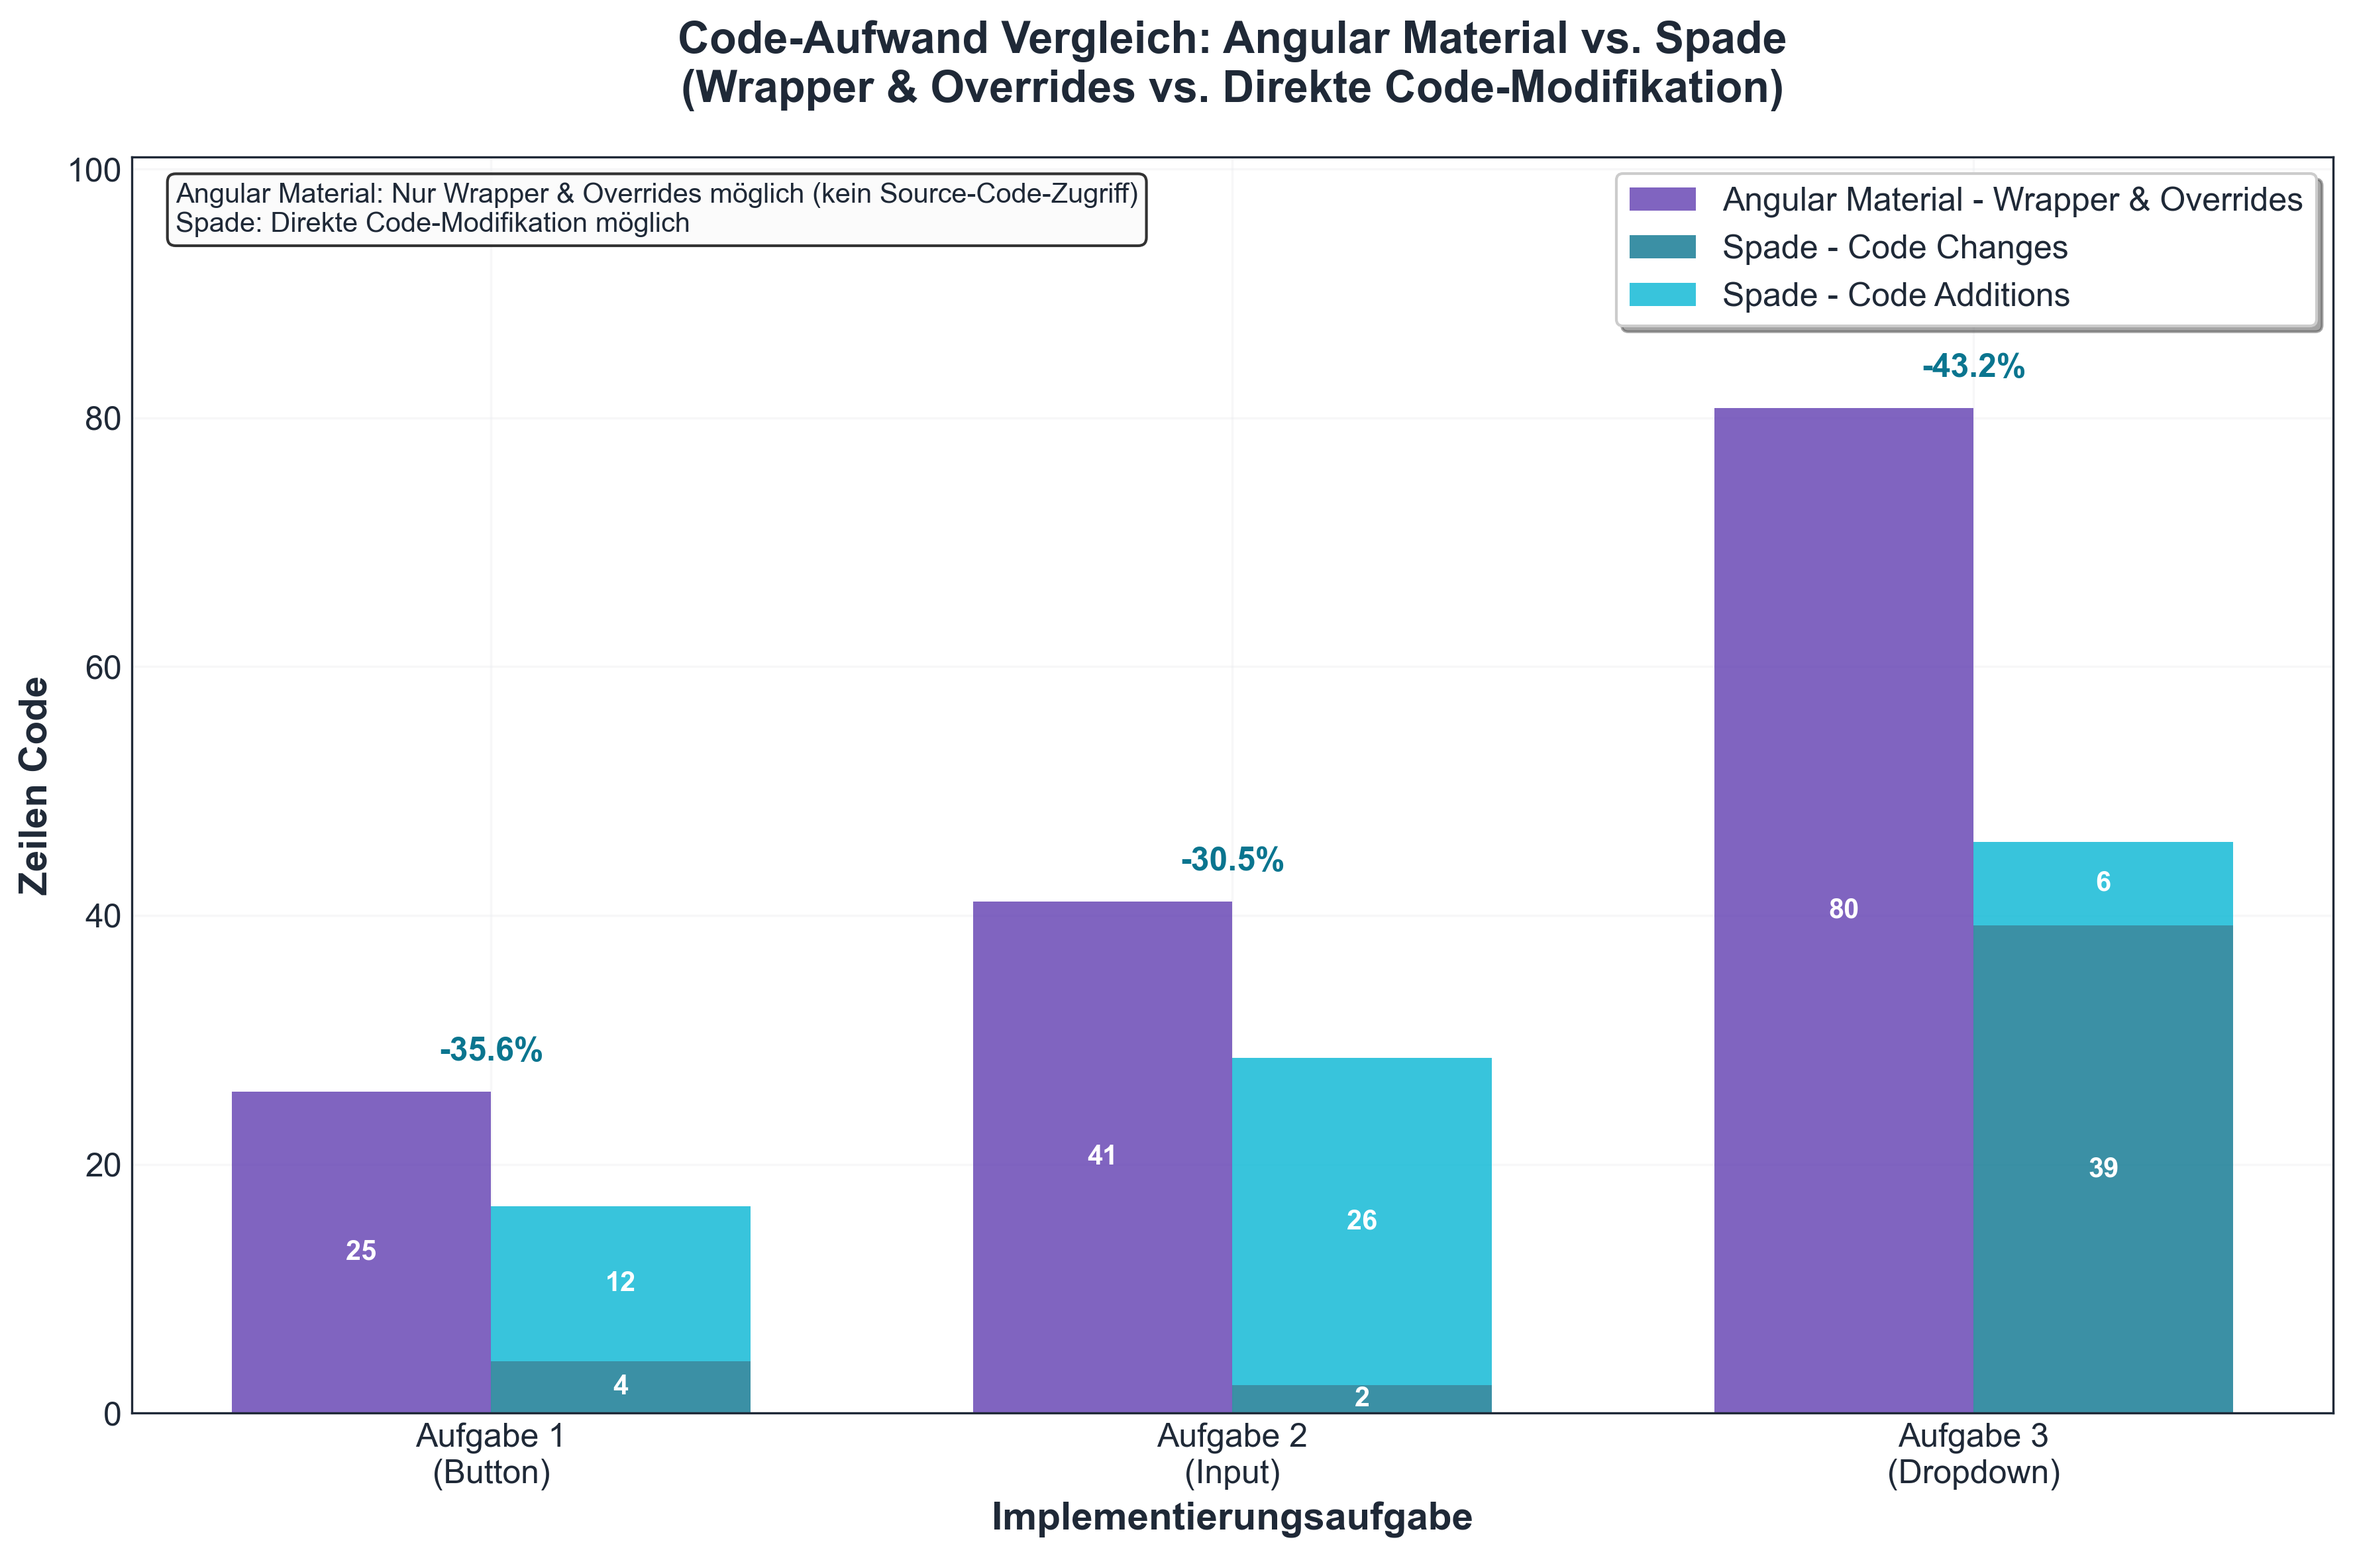
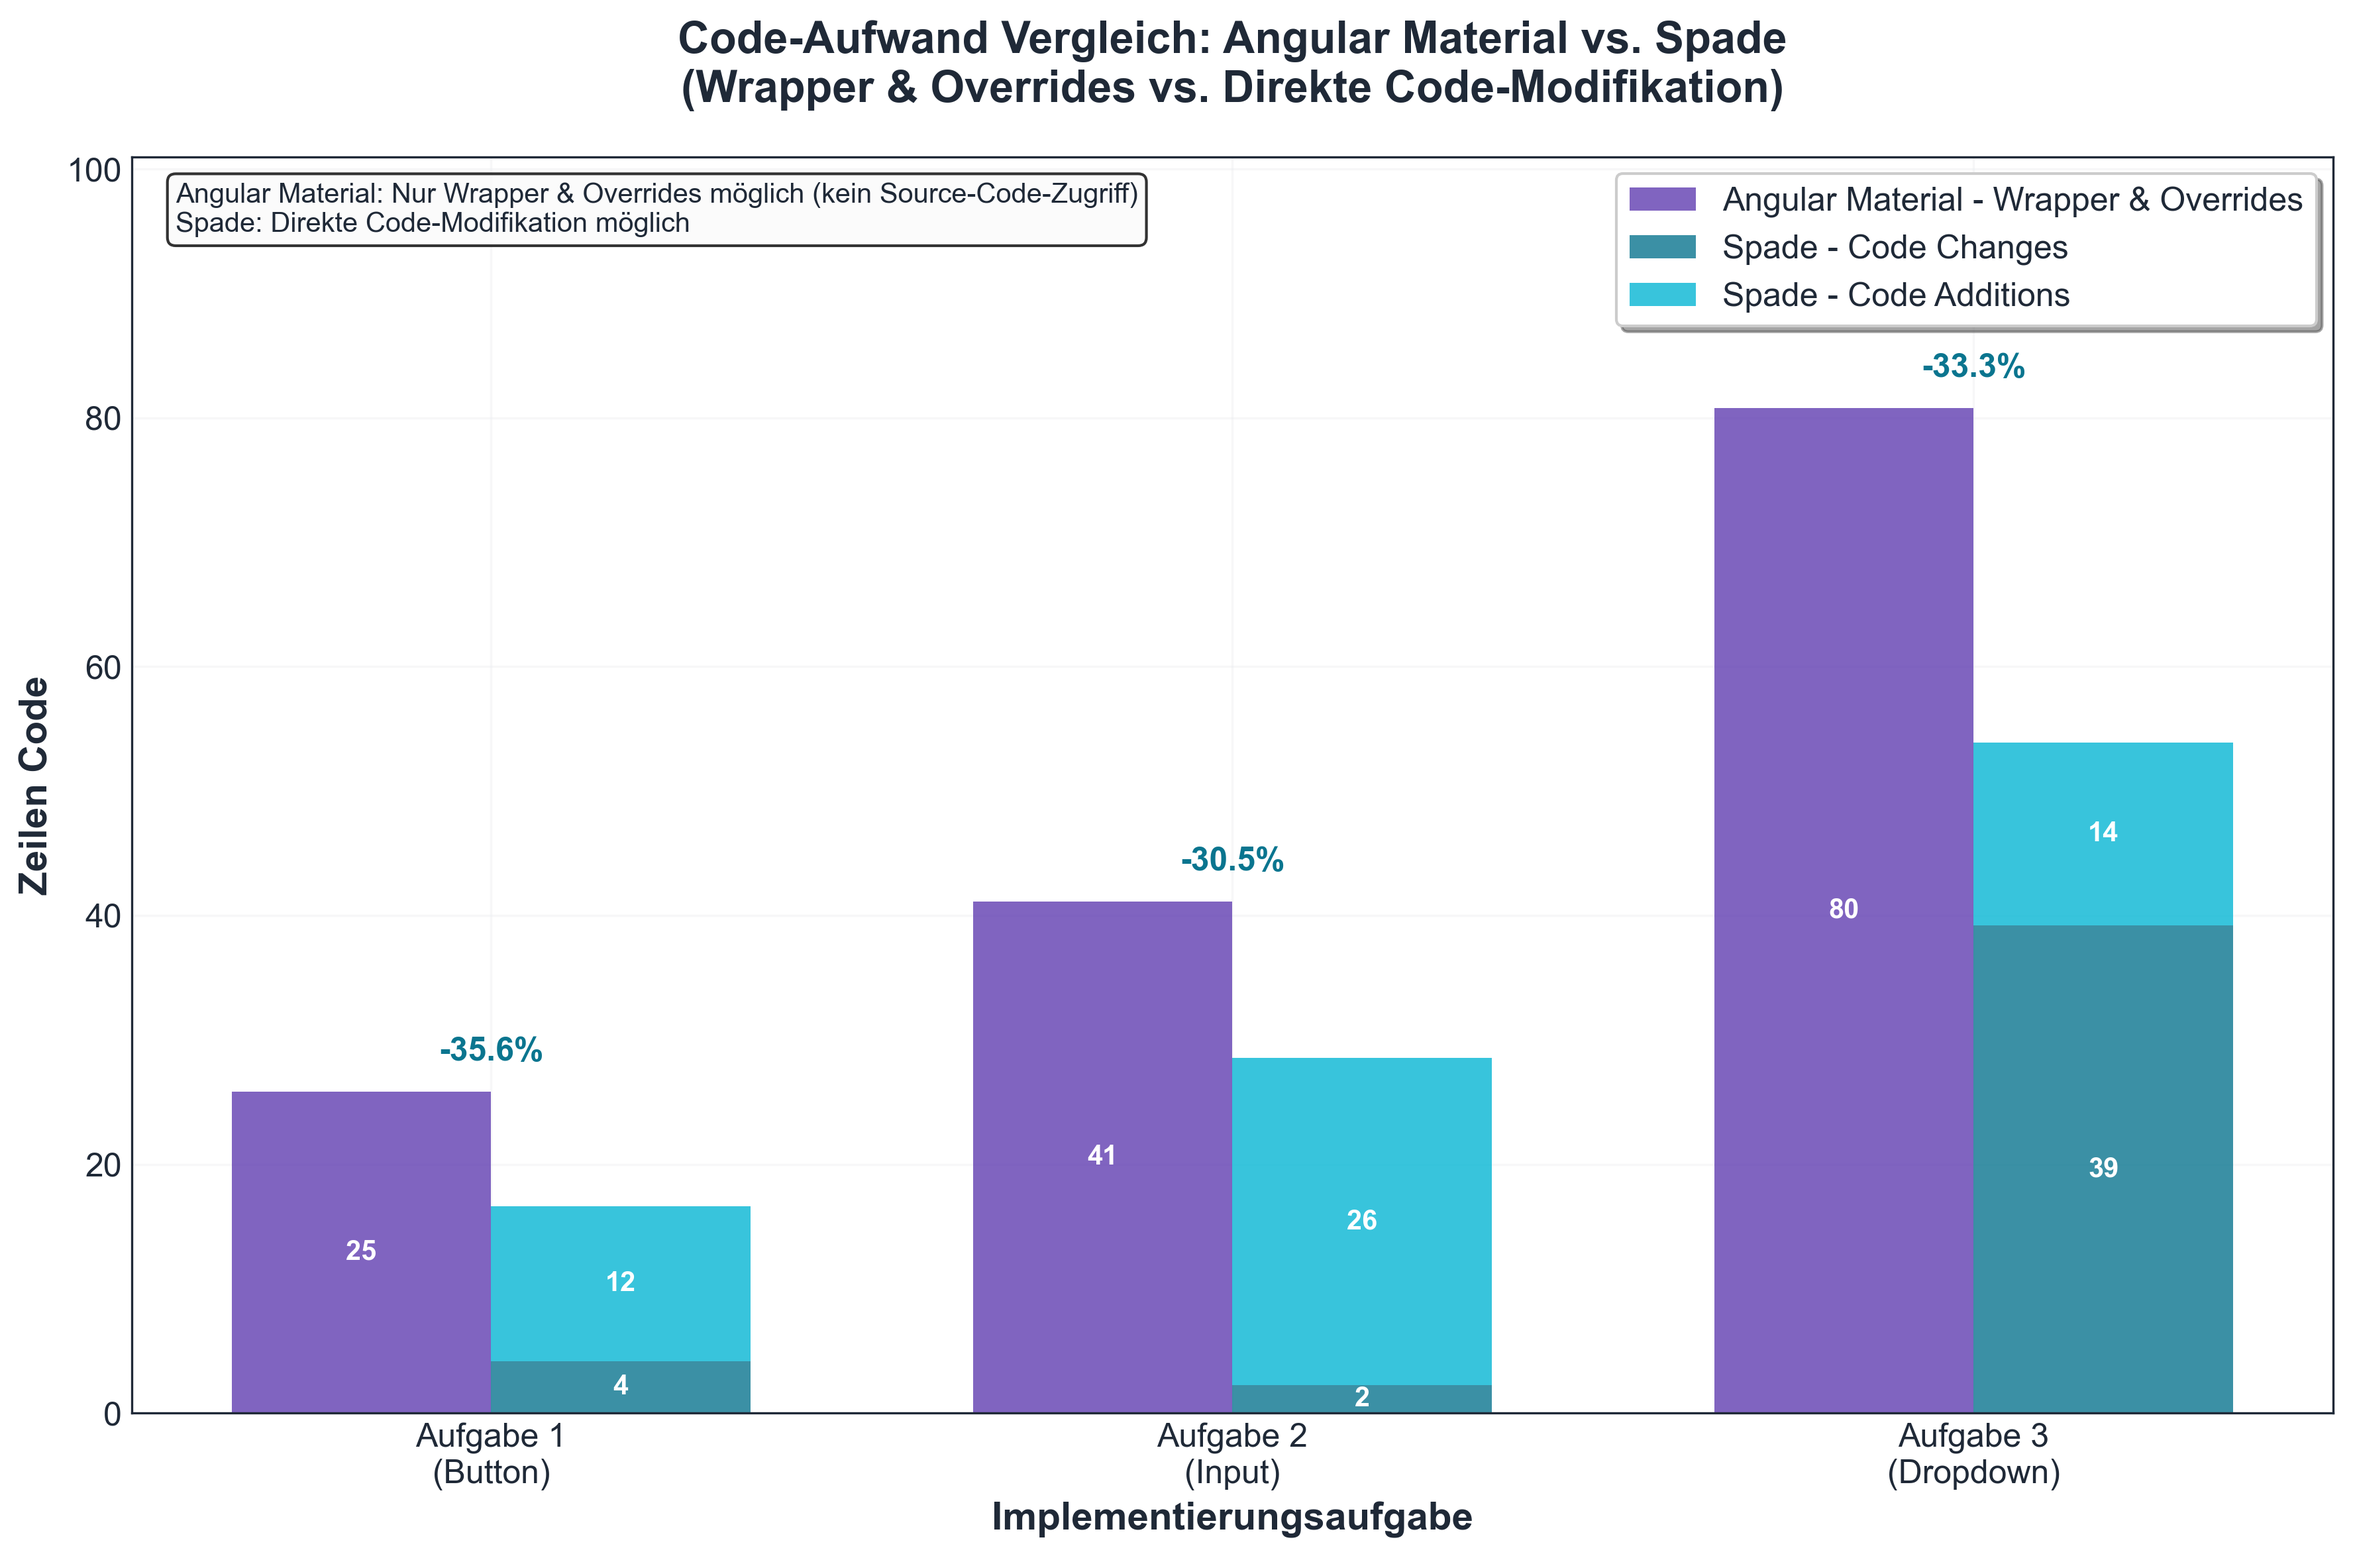
fix visualization

Changed region(s): [[0.8125, 0.4656, 0.9688, 0.5587]]

diff --git a/eval/dev_ex.py b/eval/dev_ex.py
@@ -61,7 +61,7 @@ def setup_matplotlib():
 def create_test_data():
     """Generate test data for development and testing"""
 
-    # Lines of Code data (randomized decimals added)
+    # Lines of Code data
     loc_data = {
         "Task": ["Button", "Input", "Dropdown"] * 3,
         "Library": ["Angular Material"] * 3 + ["Spade"] * 6,
@@ -80,7 +80,7 @@ def create_test_data():
             # Spade - Code Additions (new features/wrappers)
             12.43,
             26.34,
-            6.7,
+            14.7,
         ],
     }
 
